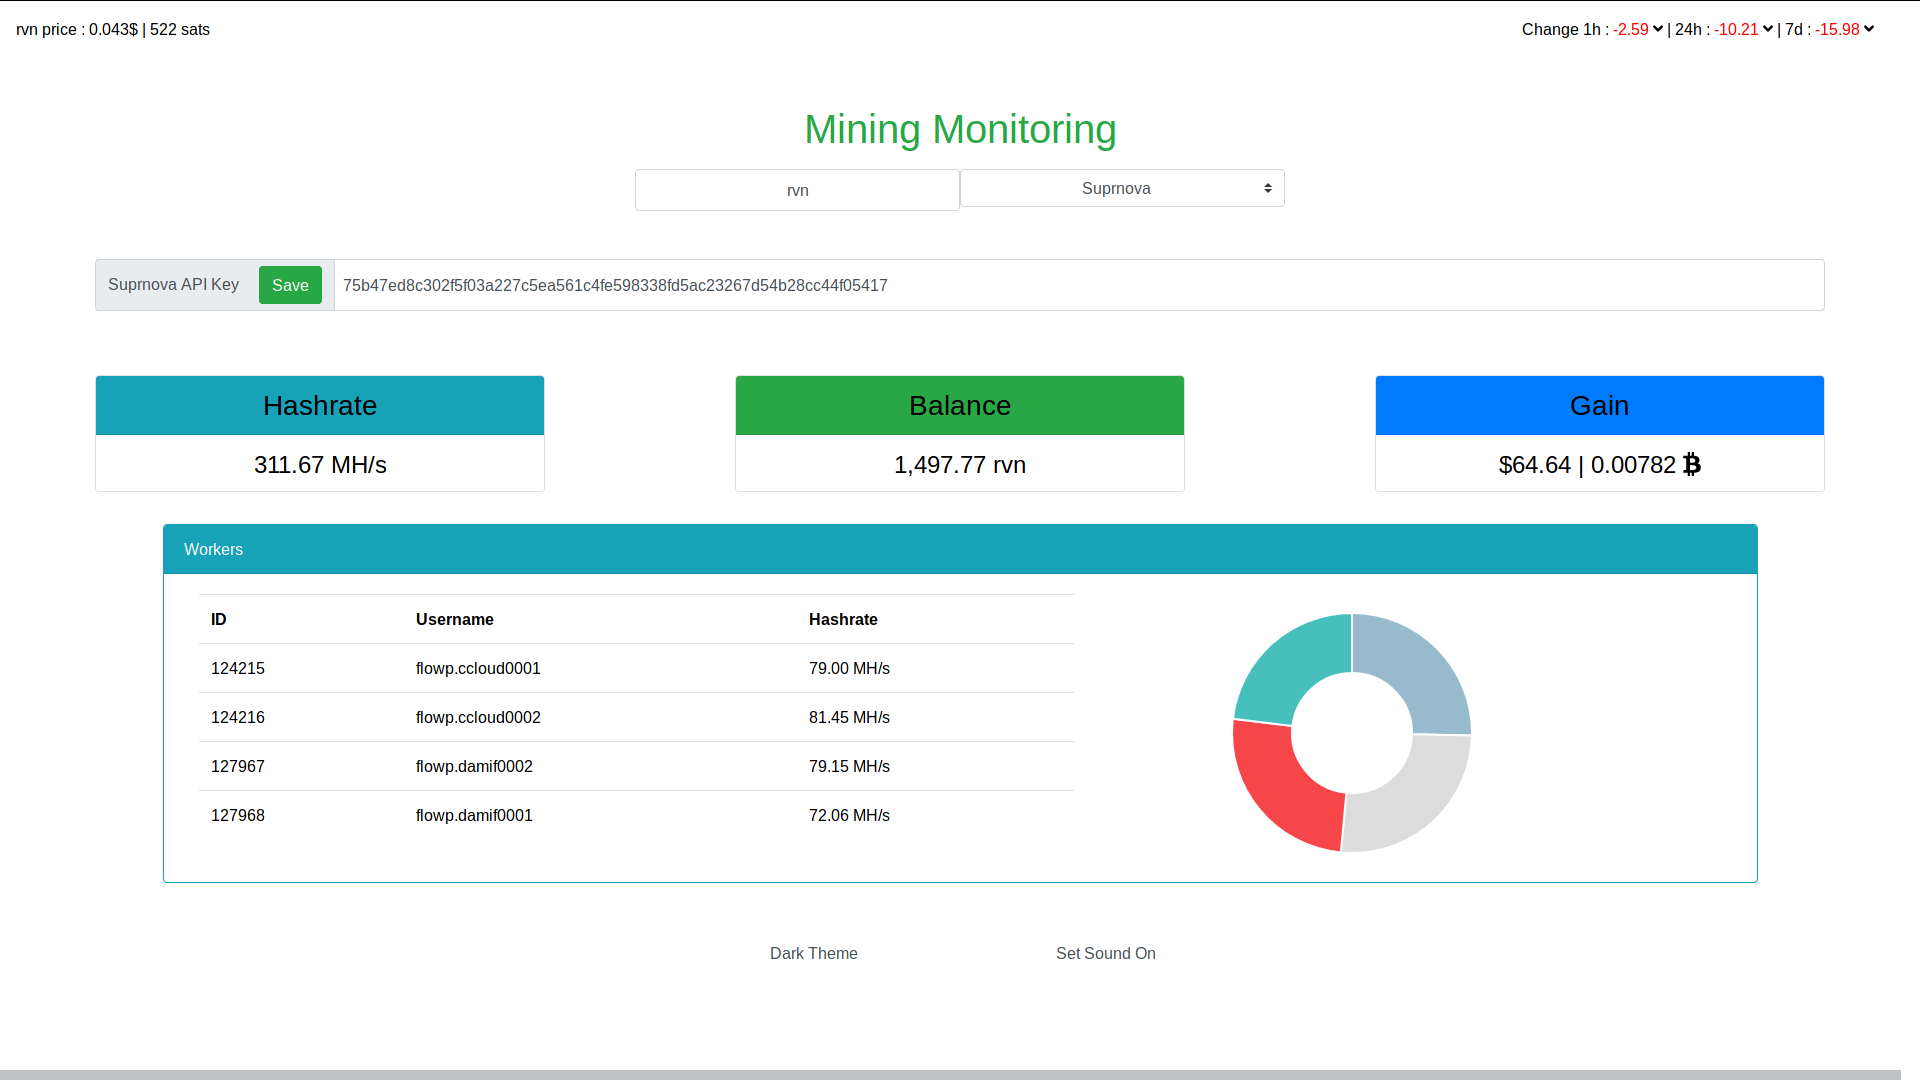
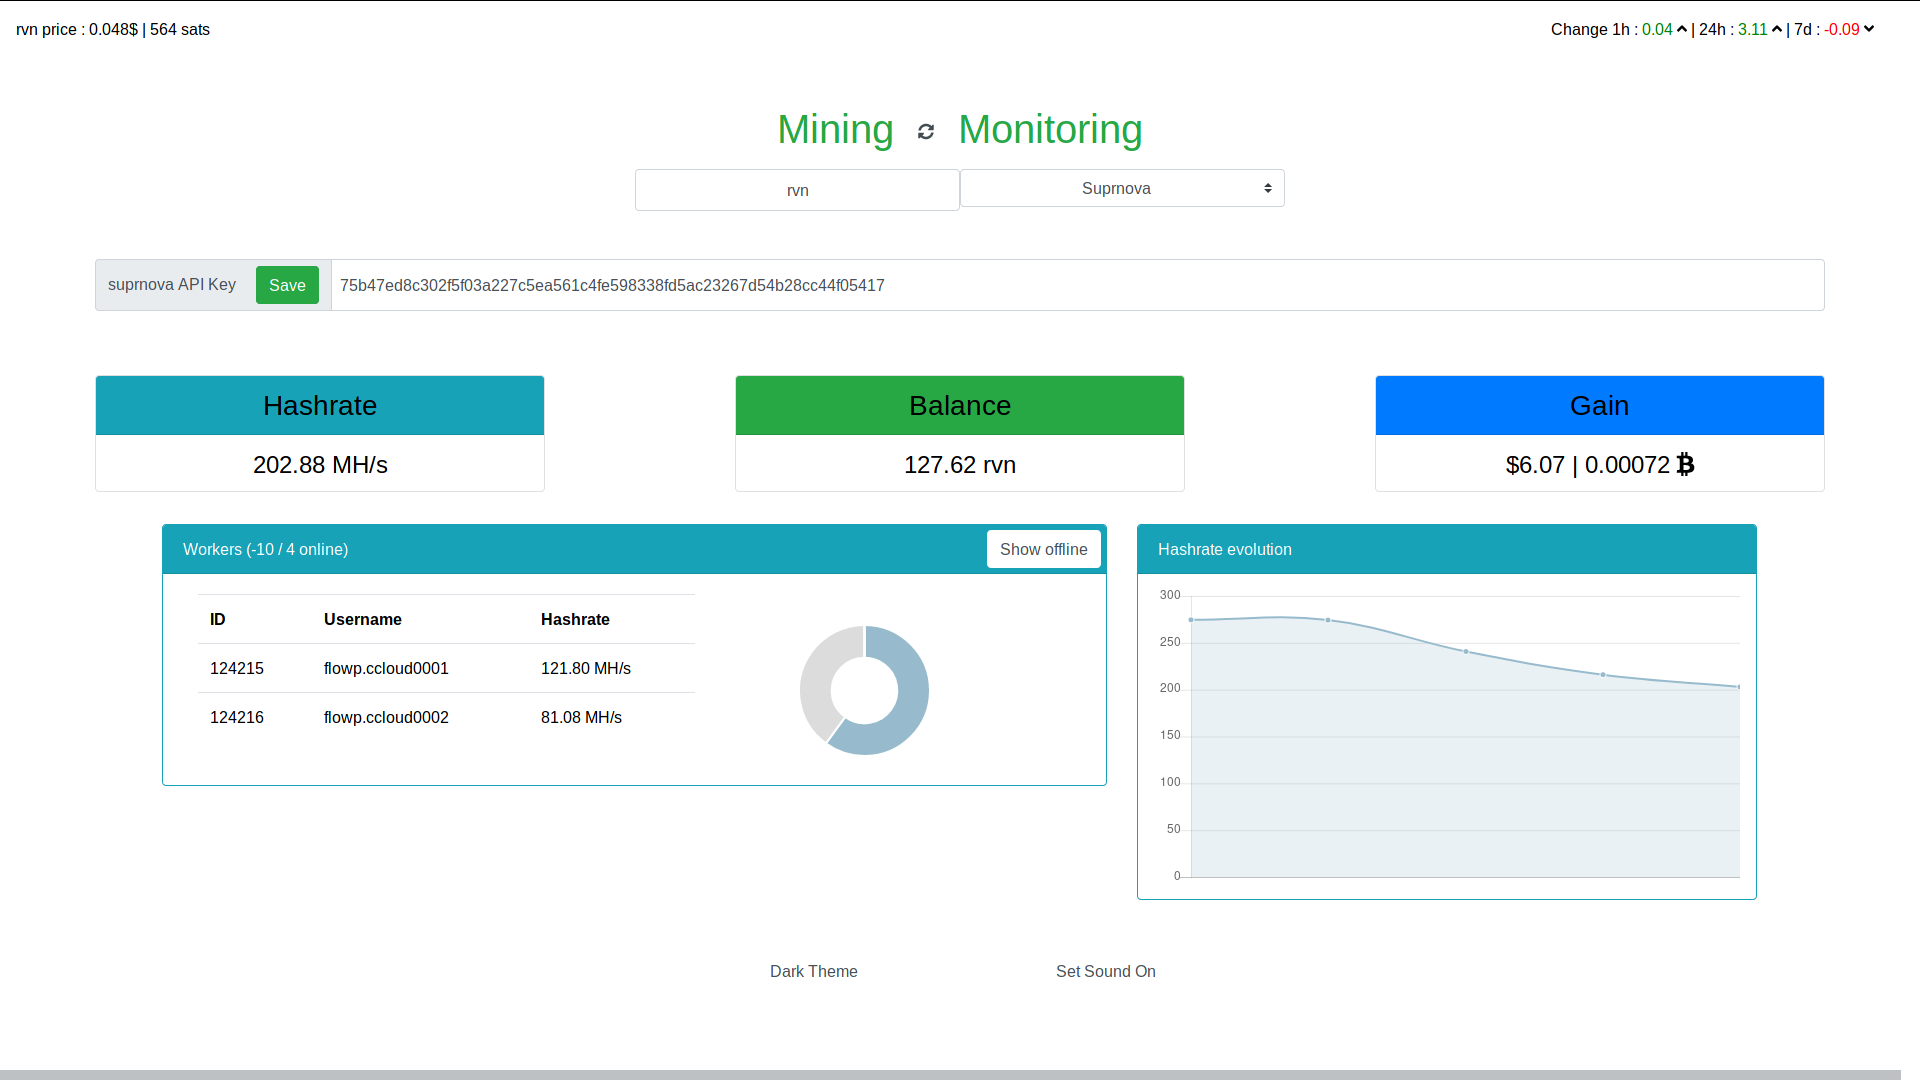
bugs fixing and dark theme fully working

diff --git a/index.html b/index.html
@@ -92,9 +92,9 @@
     <div class="row mt-3">
       <div class="offset-lg-1 col-lg-6 col-sm-11 col-xs-11" ng-show="workers.length > 0">
         <div class="card border-info">
-          <div class="card-header text-white" ng-class="theme == 'clear-theme' ? 'bg-info' : 'dark-theme'">
-            Workers ({{workers.length - activeWorkers}} / {{workers.length}} online)
-            <button class="btn" style="position:absolute;right:5px;top:5px;" ng-click="switchWorkersOnOff()">Show {{showOnlineWorkers ? 'offline' : 'online'}}</button>
+          <div class="card-header" ng-class="theme == 'clear-theme' ? 'bg-info text-white' : 'dark-theme'">
+            Workers ({{activeWorkers}} / {{workers.length}} online)
+            <button class="btn" style="position:absolute;right:5px;top:5px;" ng-click="switchWorkersOnOff()" ng-class="theme == 'clear-theme' ? 'btn-info' : 'dark-theme-contrast' ">Show {{showOnlineWorkers ? 'offline' : 'online'}}</button>
           </div>
           <div class="card-body"  ng-class="theme == 'clear-theme' ? 'errorClass' : 'dark-theme-contrast' ">
             <div class="col-lg-7" style="display:inline-block;">
@@ -132,7 +132,7 @@
       </div>
       <div ng-class="workers.length > 0 ? 'col-lg-4 col-xs-11 col-sm-11' : 'col-lg-5 col-xs-11 col-sm-11 mx-auto'" ng-show="dataHashrate[0].length > 0">
         <div class="card border-info" ng-class="theme == 'clear-theme' ? 'errorClass' : 'dark-theme-contrast' ">
-          <div class="card-header text-white" ng-class="theme == 'clear-theme' ? 'bg-info' : 'dark-theme'">
+          <div class="card-header" ng-class="theme == 'clear-theme' ? 'bg-info text-white' : 'dark-theme'">
             Hashrate evolution
           </div>
           <div class="p-3">
@@ -144,7 +144,8 @@
 
     <div class="col-lg-11 col-sm-11 mx-auto text-center mt-5">
       <button type="button" ng-class="theme == 'clear-theme' ? '' : 'dark-theme-contrast' " ng-click="switchTheme()" class="btn col-lg-2 col-sm-5 mx-auto mt-1 mb-1"> <span ng-show="theme == 'clear-theme'">Dark Theme</span> <span ng-show="theme == 'dark-theme'">Colorful Theme</span> </button>
-      <button type="button" ng-class="theme == 'clear-theme' ? '' : 'dark-theme-contrast' " ng-click="switchSound()" class="btn col-lg-2 col-sm-5 mx-auto mt-1 mb-1"> <span ng-show="sound == 'on'">Set Sound Off</span> <span ng-show="sound == 'off'">Set Sound On</span> </button>
+      <!--<button type="button" ng-class="theme == 'clear-theme' ? '' : 'dark-theme-contrast' " ng-click="switchSound()" class="btn col-lg-2 col-sm-5 mx-auto mt-1 mb-1"> <span ng-show="sound == 'on'">Set Sound Off</span> <span ng-show="sound == 'off'">Set Sound On</span> </button>
+      -->
     </div>
   </body>
 </html>

diff --git a/js/app.js b/js/app.js
@@ -83,6 +83,7 @@ app.controller('minerMonitorController', ['$scope','$http', '$interval', '$timeo
         if ($scope.apiKey.length > 0) {
           $http.get('api/getInfosSuprnova.php?key='+$scope.apiKey+'&currency='+$scope.currency+'&algo=nochoice')
             .then(function (response) {
+              $scope.activeWorkers=0;
               $scope.hashrate = response.data.hashrate;
               $scope.balance = response.data.balanceConfirmed;
 
@@ -104,11 +105,11 @@ app.controller('minerMonitorController', ['$scope','$http', '$interval', '$timeo
 
       $scope.getInfosElitehash = function(apiKey) {
         if ($scope.apiKey.length > 0) {
+          $scope.workers = [];
           $http.get('api/getInfosElitehash.php?key='+$scope.apiKey+'&currency='+$scope.currency+'&algo=nochoice')
             .then(function (response) {
                 $scope.hashrate = response.data.hashrate;
                 $scope.balance = response.data.balanceConfirmed;
-                $scope.workers = [];
 
                 $scope.dataHashrate[0].push(response.data.hashrate/1000);
                 $scope.labelsHashrate.push($scope.dataHashrate[0].length);

diff --git a/README.md b/README.md
@@ -11,7 +11,6 @@ You just need your API Key that you can find in My Account > Edit Account on the
 You can save the API key (it's only saved on your computer in a cookie), turn on/off the sound alert when an error is detected and choose the theme which could be clear or dark for the night demons ;)
 
 ![alt text](http://flowp.fr/public/presentation-mining-monitor.png)
-![alt text](http://flowp.fr/public/presentation-mining-monitor-dark.png)
 
 
 XVG address for donation : DBCWcgj1tEbyA2UQrbrBT8cBNgTabZDhVP
